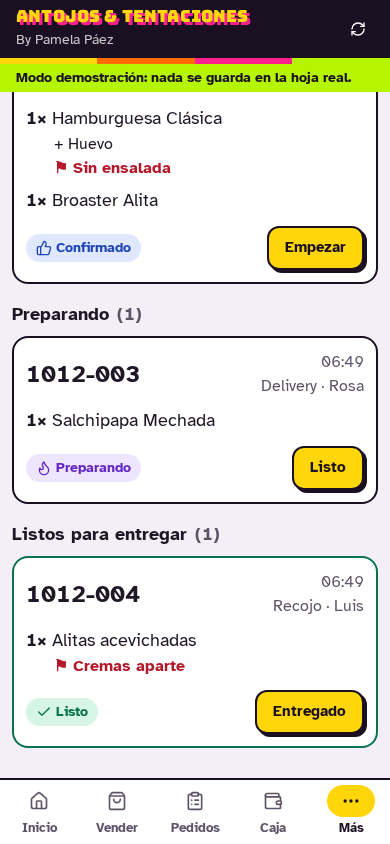
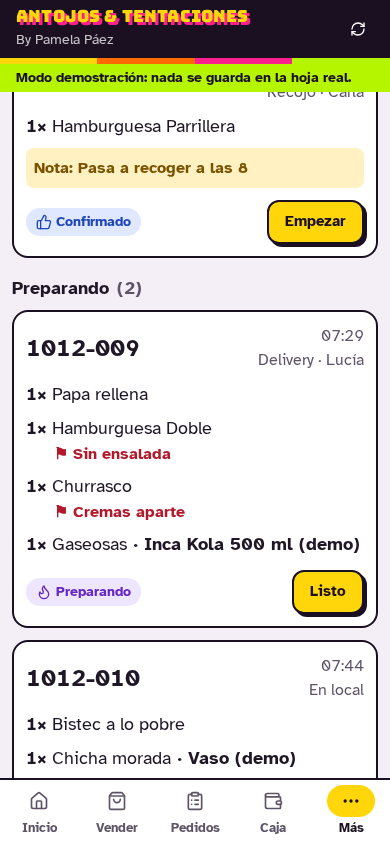
Datos de demostración (cargarDemo) y borrado de datos (borrarDatos)
- cargarDemo(): ~10 días de operación ficticia con las mismas funciones del
  negocio; se niega a correr sobre ventas reales.
- borrarDatos(): limpia lo operativo y las opciones de demo; conserva carta,
  ajustes y clave. También en Ajustes (pide clave y BORRAR).
- El modo ?demo usa los mismos datos. Aviso en el panel mientras haya demo.

Claude-Session: https://claude.ai/code/session_01NiEQnYtQKwSU5MjnVwyy4u

diff --git a/web/src/lib/demo.ts b/web/src/lib/demo.ts
@@ -1,62 +1,18 @@
 /**
- * Modo demostración: ejecuta el mismo Code.gs dentro del navegador con una hoja simulada en memoria.
- * Los datos de ejemplo viven solo aquí (se pierden al recargar) y nunca llegan a la hoja real del negocio.
+ * Modo demostración: ejecuta el mismo Code.gs dentro del navegador con una hoja simulada en memoria y carga
+ * los mismos datos de ejemplo que cargarDemo() en Apps Script. Viven solo aquí (se pierden al recargar).
  */
 import code from '../../../apps-script/Code.gs?raw'
 import { ApiError, type Transport } from './api'
-import { crearBackend, type Backend } from './fakegas'
+import { crearBackend } from './fakegas'
 
 export const CLAVE_DEMO = 'demo'
-
-function sembrar(b: Backend) {
-  const ses = b.post('login', { clave: CLAVE_DEMO }).data.sesion as string
-  const k = () => crypto.randomUUID()
-  const call = (a: string, p: unknown) => { const r = b.post(a, p, ses); if (!r.ok) throw new Error(`${a}: ${r.error?.message}`); return r.data }
-  call('saveOpcion', { id: 'opc-demo-inca', productoId: 'prd-beb-gaseosas', tipo: 'variante', nombre: 'Inca Kola 500 ml', precio: 3.5 })
-  call('saveOpcion', { id: 'opc-demo-coca', productoId: 'prd-beb-gaseosas', tipo: 'variante', nombre: 'Coca-Cola 500 ml', precio: 3.5 })
-  call('saveOpcion', { id: 'opc-demo-huevo', productoId: 'prd-hamb-clasica', tipo: 'extra', nombre: 'Huevo', precio: 1.5 })
-  call('saveOpcion', { id: 'opc-demo-queso', productoId: 'prd-hamb-clasica', tipo: 'extra', nombre: 'Queso', precio: 1.5 })
-  call('marcarProducto', { id: 'prd-hamb-bbq', destacado: true })
-  call('marcarProducto', { id: 'prd-esp-alitas-acevichadas', destacado: true })
-
-  // Días anteriores (para reportes): el reloj de la simulación retrocede.
-  const ahora = Date.now()
-  const lineasDia = [
-    [{ productoId: 'prd-hamb-clasica', cantidad: 2 }, { productoId: 'prd-beb-gaseosas', varianteId: 'opc-demo-inca', cantidad: 2 }],
-    [{ productoId: 'prd-salc-mechada', cantidad: 1 }], [{ productoId: 'prd-brst-pecho', cantidad: 2 }],
-    [{ productoId: 'prd-esp-bistec-pobre', cantidad: 1 }], [{ productoId: 'prd-hamb-doble', cantidad: 1 }, { productoId: 'prd-salc-clasica', cantidad: 1 }],
-  ]
-  for (let d = 6; d >= 1; d--) {
-    b.reloj(() => ahora - d * 86400000 - 3 * 3600000)
-    lineasDia.slice(0, 2 + (d % 4)).forEach((lineas, i) => {
-      const r = call('crearVenta', { clave: k(), canal: i % 3 === 2 ? 'recojo' : 'local', estado: 'entregado', lineas })
-      call('registrarPago', { clave: k(), pedidoId: r.id, medio: ['Efectivo', 'Yape', 'Plin'][i % 3], monto: r.total })
-    })
-    call('crearGasto', { clave: k(), categoria: d % 2 ? 'Ingredientes' : 'Envases', tipo: 'compra', monto: 35 + d * 4, medio: 'Transferencia' })
-  }
-
-  b.reloj(() => ahora - 90 * 60000)
-  call('abrirCaja', { clave: k(), fondo: 50 })
-  const v1 = call('crearVenta', { clave: k(), canal: 'local', estado: 'entregado', lineas: lineasDia[0], pago: { medio: 'Efectivo', monto: 23 } })
-  void v1
-  call('crearVenta', { clave: k(), canal: 'local', lineas: [{ productoId: 'prd-hamb-clasica', extras: ['opc-demo-huevo'], cantidad: 1, nota: 'Sin ensalada' }, { productoId: 'prd-brst-alita', cantidad: 1 }], pago: { medio: 'Yape', monto: 19.5 } })
-  const v3 = call('crearVenta', { clave: k(), canal: 'delivery', cliente: 'Rosa', telefono: '987654321', direccion: 'Jr. Ejemplo 123', referencia: 'Puerta verde', delivery: 3, lineas: lineasDia[1], pago: { medio: 'Plin', monto: 10 } })
-  call('cambiarEstado', { pedidoId: v3.id, estado: 'preparando' })
-  const v4 = call('crearVenta', { clave: k(), canal: 'recojo', cliente: 'Luis', lineas: [{ productoId: 'prd-esp-alitas-acevichadas', cantidad: 1, nota: 'Cremas aparte' }] })
-  call('cambiarEstado', { pedidoId: v4.id, estado: 'listo' })
-  call('crearVenta', { clave: k(), canal: 'delivery', estado: 'pendiente', cliente: 'Carla', direccion: 'Av. Ejemplo 456', lineas: [{ productoId: 'prd-hamb-bbq', cantidad: 2 }] })
-  const v6 = call('crearVenta', { clave: k(), canal: 'local', lineas: [{ productoId: 'prd-hamb-triple', cantidad: 1 }], pago: { medio: 'Efectivo', monto: 16 } })
-  call('cancelarPedido', { pedidoId: v6.id, motivo: 'Cliente se retiró', devolucion: 'pendiente', clave: k() })
-  call('crearGasto', { clave: k(), categoria: 'Gas', tipo: 'operativo', monto: 12, medio: 'Efectivo', desdeCaja: true, descripcion: 'Recarga de balón' })
-  b.reloj(null)
-  call('logout', {})
-}
 
 export function demoTransport(): Transport {
   const b = crearBackend(code)
   b.setup()
   b.fijarClave(CLAVE_DEMO)
-  sembrar(b)
+  b.cargarDemo()
   return async (action, payload, sesion) => {
     await new Promise(r => setTimeout(r, 120))
     const r = b.post(action, payload, sesion)

diff --git a/web/src/backend.test.ts b/web/src/backend.test.ts
@@ -4,6 +4,7 @@ import { readFileSync } from 'node:fs'
 import { resolve } from 'node:path'
 import { beforeEach, describe, expect, it } from 'vitest'
 import { crearBackend, type Backend } from './lib/fakegas'
+import { sumarDias } from './lib/util'
 
 const CODE = readFileSync(resolve(__dirname, '../../apps-script/Code.gs'), 'utf8')
 const CLAVE = 'clave-de-prueba-1'
@@ -358,5 +359,56 @@ describe('carta pública (segunda etapa)', () => {
     expect(p).toHaveLength(1)
     expect([p[0].estado, p[0].origen, p[0].pagado]).toEqual(['pendiente', 'carta', 0])
     expect(b.post('crearSolicitud', { ...s, clave: clave(), cliente: '' }).error?.code).toBe('VALIDATION')
+  })
+})
+
+describe('datos de demostración y borrado', () => {
+  it('cargarDemo llena todas las hojas con 5 o más registros y cuadra', () => {
+    const r = b.cargarDemo()
+    for (const h of ['PEDIDOS', 'DETALLE_PEDIDOS', 'PAGOS', 'GASTOS', 'CAJAS', 'MOVIMIENTOS_CAJA', 'HISTORIAL_ESTADOS', 'OPCIONES']) {
+      expect(filas(h).length, h).toBeGreaterThanOrEqual(5)
+    }
+    expect(r.pedidos).toBeGreaterThanOrEqual(50)
+    const hoy = ok('inicial').hoy
+    const d = ok('rango', { desde: sumarDias(hoy, -30), hasta: hoy, fresh: true })
+    expect(d.incompletos).toHaveLength(0)
+    const estados = new Set(rangoHoy().pedidos.map((p: any) => p.estado))
+    for (const e of ['pendiente', 'confirmado', 'preparando', 'listo', 'entregado', 'cancelado']) expect(estados.has(e), e).toBe(true)
+    const cajas = ok('cajas', { limite: 30 })
+    expect(cajas.filter((c: any) => c.estado === 'cerrada').length).toBeGreaterThanOrEqual(5)
+    expect(cajas.filter((c: any) => c.estado === 'abierta')).toHaveLength(1)
+    expect(ok('inicial').config.datos_demo).toBe('SI')
+    expect(() => b.cargarDemo()).toThrow(/ya están cargados/)
+  })
+
+  it('borrarDatos deja la hoja limpia, conserva catálogo, configuración y clave', () => {
+    ok('saveConfig', { valores: { horario: '6 pm a 11 pm' } })
+    b.cargarDemo()
+    const r = b.borrarDatos()
+    expect(r.PEDIDOS).toBeGreaterThan(0)
+    for (const h of ['PEDIDOS', 'DETALLE_PEDIDOS', 'PAGOS', 'GASTOS', 'CAJAS', 'MOVIMIENTOS_CAJA', 'HISTORIAL_ESTADOS', 'OPCIONES']) expect(filas(h), h).toHaveLength(0)
+    const d = ok('inicial', { fresh: true })
+    expect(d.productos).toHaveLength(25)
+    expect(d.config.horario).toBe('6 pm a 11 pm')
+    expect(d.config.datos_demo).toBe('NO')
+    expect(d.caja).toBeNull()
+    expect(rangoHoy().pedidos).toHaveLength(0)
+    // Los códigos vuelven a empezar y se puede vender normalmente.
+    expect(venta([{ productoId: 'prd-hamb-doble', cantidad: 1 }]).codigo).toMatch(/-001$/)
+  })
+
+  it('no carga la demo encima de ventas reales', () => {
+    venta([{ productoId: 'prd-hamb-doble', cantidad: 1 }])
+    expect(() => b.cargarDemo()).toThrow(/ya tiene ventas/)
+  })
+
+  it('desde el panel exige la clave y la palabra BORRAR', () => {
+    b.cargarDemo()
+    expect(err('borrarDatos', { clave: 'mala', confirmacion: 'BORRAR' }).message).toMatch(/clave/)
+    expect(err('borrarDatos', { clave: CLAVE, confirmacion: 'si' }).message).toMatch(/BORRAR/)
+    expect(filas('PEDIDOS').length).toBeGreaterThan(0)
+    ok('borrarDatos', { clave: CLAVE, confirmacion: 'BORRAR' })
+    expect(filas('PEDIDOS')).toHaveLength(0)
+    expect(err('borrarDatos', { clave: CLAVE, confirmacion: 'BORRAR' }, '').code).toBe('UNAUTHORIZED')
   })
 })

diff --git a/web/src/tabs/Ajustes.tsx b/web/src/tabs/Ajustes.tsx
@@ -82,6 +82,8 @@ export function Ajustes() {
         <p className="mt-2 text-sm text-gris">Cambiar la clave cierra la sesión en todos los equipos. Si la olvidas, se restablece desde Apps Script con la función restablecerClave().</p>
       </Seccion>
 
+      <BorrarDatos />
+
       <Seccion titulo="Conexión y datos">
         <div className="space-y-2">
           <p>Versión del servidor {ini.version}. {st.modo === 'demo' ? 'Modo demostración.' : <a href={ini.sheetUrl} target="_blank" rel="noreferrer" className="inline-flex items-center gap-1 font-bold underline">Abrir la hoja de cálculo<ExternalLink className="size-4" aria-hidden /></a>}</p>
@@ -91,5 +93,35 @@ export function Ajustes() {
         </div>
       </Seccion>
     </div>
+  )
+}
+
+/** Borra pedidos, pagos, gastos, cajas e historial (por ejemplo, los datos de demostración antes de empezar en serio). */
+function BorrarDatos() {
+  const st = useStore()
+  const [clave, setClave] = useState('')
+  const [palabra, setPalabra] = useState('')
+  const [enviando, setEnviando] = useState(false)
+  const demo = st.inicial?.config.datos_demo === 'SI'
+  return (
+    <Seccion titulo="Borrar datos de ventas" className="border-e-canc">
+      <p className="mb-3">
+        {demo ? 'La hoja tiene datos de demostración. ' : ''}Borra todos los pedidos, cobros, devoluciones, gastos, cajas e historial.
+        Se conservan la carta, los ajustes y tu clave. No se puede deshacer desde la app (sí desde el historial de versiones de la hoja).
+      </p>
+      <div className="grid gap-3 md:grid-cols-2">
+        <Campo etiqueta="Tu clave"><Input type="password" autoComplete="current-password" value={clave} onChange={e => setClave(e.target.value)} /></Campo>
+        <Campo etiqueta="Escribe BORRAR para confirmar"><Input value={palabra} onChange={e => setPalabra(e.target.value)} autoCapitalize="characters" /></Campo>
+      </div>
+      <Btn variante="peligro" className="mt-3" disabled={!clave || palabra !== 'BORRAR'} cargando={enviando} onClick={async () => {
+        if (!(await confirmar({ titulo: 'Borrar datos de ventas', texto: 'Se borrarán todos los pedidos, cobros, gastos, cajas e historial. ¿Continuar?', ok: 'Borrar todo', peligro: true }))) return
+        setEnviando(true)
+        try {
+          await st.run('Borrar datos', () => st.call('borrarDatos', { clave, confirmacion: palabra }), 'Datos borrados. La hoja quedó lista para empezar.')
+          setClave(''); setPalabra('')
+          await st.recargarTodo()
+        } catch { /* aviso mostrado */ } finally { setEnviando(false) }
+      }}>Borrar datos de ventas</Btn>
+    </Seccion>
   )
 }

diff --git a/web/src/lib/fakegas.ts b/web/src/lib/fakegas.ts
@@ -40,6 +40,10 @@ class FakeRange {
     return this
   }
   setNumberFormat() { return this }
+  clearContent() {
+    for (let i = 0; i < this.nr; i++) { const row = this.s.rows[this.r - 1 + i]; if (row) for (let j = 0; j < this.nc; j++) row[this.c - 1 + j] = '' }
+    return this
+  }
   setFontWeight() { return this }
   setBackground() { return this }
 }
@@ -114,6 +118,8 @@ export interface Backend {
   post(action: string, payload?: unknown, sesion?: string): { ok: boolean; data?: any; error?: { code: string; message: string; detalle?: any } }
   get(): { ok: boolean; data?: any }
   setup(): void
+  cargarDemo(): Record<string, number>
+  borrarDatos(): Record<string, number>
   fijarClave(clave: string): void
   fallarEn(paso: string): void
   reloj(fn: (() => number) | null): void
@@ -170,7 +176,7 @@ export function crearBackend(code: string, opts: BackendOpts = {}): Backend {
     console: { error: () => {}, warn: () => {}, log: () => {} },
   }
   const names = Object.keys(env)
-  const expose = `;return { doPost: doPost, doGet: doGet, setup: setup, restablecerClave: restablecerClave,
+  const expose = `;return { doPost: doPost, doGet: doGet, setup: setup, restablecerClave: restablecerClave, cargarDemo: cargarDemo, borrarDatos: borrarDatos,
     fijarClave: fijarClave_, set: function (k, v) { if (k === 'F') FALLAS_PRUEBA = v; if (k === 'R') RELOJ_PRUEBA = v; } };`
   // eslint-disable-next-line no-new-func
   const api = new Function(...names, code + expose)(...names.map(k => env[k]))
@@ -181,6 +187,8 @@ export function crearBackend(code: string, opts: BackendOpts = {}): Backend {
     },
     get() { return JSON.parse(api.doGet()) },
     setup() { api.setup() },
+    cargarDemo() { return api.cargarDemo() },
+    borrarDatos() { return api.borrarDatos() },
     fijarClave(clave) { api.fijarClave(clave) },
     fallarEn(paso) { api.set('F', { [paso]: true }) },
     reloj(fn) { api.set('R', fn) },

diff --git a/web/src/App.tsx b/web/src/App.tsx
@@ -60,6 +60,7 @@ export function App() {
           ))}
         </nav>
         {st.modo === 'demo' && <p className="m-3 rounded-xl bg-lima px-3 py-2 text-sm font-bold text-noche">Modo demostración: datos de ejemplo que no se guardan en la hoja.</p>}
+        {st.modo === 'real' && st.inicial?.config.datos_demo === 'SI' && <p className="m-3 rounded-xl bg-lima px-3 py-2 text-sm font-bold text-noche">La hoja tiene datos de demostración. Bórralos en Ajustes antes de usarla en serio.</p>}
       </aside>
 
       <div className="min-w-0 pb-24 xl:pb-8">
@@ -71,6 +72,7 @@ export function App() {
           </div>
           <div className="franja" />
           {st.modo === 'demo' && <p className="bg-lima px-4 py-1 text-sm font-bold text-noche">Modo demostración: nada se guarda en la hoja real.</p>}
+          {st.modo === 'real' && st.inicial?.config.datos_demo === 'SI' && <p className="bg-lima px-4 py-1 text-sm font-bold text-noche">Datos de demostración cargados. Bórralos en Ajustes antes de usar la app en serio.</p>}
         </header>
         <div className="sticky top-0 z-10 hidden items-center justify-end gap-3 bg-papel/90 px-6 py-2 backdrop-blur xl:flex">
           <EstadoGuardado claro />

diff --git a/web/src/tabs/Pedidos.tsx b/web/src/tabs/Pedidos.tsx
@@ -97,7 +97,7 @@ export function Pedidos() {
               <tbody className="divide-y-2 divide-linea">
                 {lista.map(p => (
                   <tr key={p.id} className="align-top hover:bg-papel">
-                    <td className="px-3 py-2"><button type="button" onClick={() => setAbierto(p.id)} className="font-bold underline tabular cursor-pointer">{p.codigo}</button></td>
+                    <td className="px-3 py-2"><button type="button" onClick={() => setAbierto(p.id)} className="font-bold whitespace-nowrap underline tabular cursor-pointer">{p.codigo}</button></td>
                     <td className="px-3 py-2 tabular">{p.enRango ? hora(p.creadoEn) : fechaCorta(p.fecha)}</td>
                     <td className="px-3 py-2">{p.cliente || '—'}<span className="block text-sm text-gris">{ETIQUETA_CANAL[p.canal]}</span></td>
                     <td className="max-w-xs px-3 py-2 text-sm">{resumen(p)}</td>

diff --git a/README.md b/README.md
@@ -73,6 +73,12 @@ Para actualizar el backend: pega el `Code.gs` nuevo y en **Implementar → Gesti
 2. En *Environment variables* agrega `VITE_API_URL` = la URL `/exec`. (Sin esta variable, cada equipo puede ingresarla en “Configurar conexión” del login).
 3. Netlify publica al fusionar en `main`.
 
+### Datos de demostración (para presentar)
+- **`cargarDemo()`** (desde el editor de Apps Script, tarda 1–3 minutos): carga unos 10 días de operación ficticia usando las mismas funciones del negocio. Incluye más de 60 pedidos en todos los estados, cobros por todos los medios, saldos por cobrar, cancelaciones con y sin devolución, gastos de compra y operativos, 9 cajas cerradas (una con diferencia) y la caja de hoy abierta con aporte y retiro. También agrega precios de ejemplo para bebidas y extras, marcados “(demo)”. Se niega a correr si la hoja ya tiene ventas reales.
+- Mientras haya datos de demo, el panel muestra un aviso verde lima.
+- **`borrarDatos()`** (desde el editor) o **Ajustes → Borrar datos de ventas** (pide la clave y escribir BORRAR): borra pedidos, detalle, pagos, gastos, cajas, movimientos e historial, y las opciones “(demo)”. Conserva la carta, los ajustes y la clave. Los códigos de pedido vuelven a empezar en 001. Se recupera solo desde Archivo → Historial de versiones de la hoja.
+- El modo `?demo` del navegador carga exactamente los mismos datos, en memoria.
+
 ### 3. Primer uso
 Entra con la clave inicial y cámbiala en **Ajustes → Seguridad**. Revisa en **Carta** los productos “por revisar” (bebidas y Salchibroaster sin precio, descripciones pendientes) y en **Ajustes** confirma el número de WhatsApp.
 
@@ -81,7 +87,7 @@ Entra con la clave inicial y cámbiala en **Ajustes → Seguridad**. Revisa en *
 cd web
 npm install
 npm run dev          # abre http://localhost:5173/?demo  (clave: demo)
-npm test             # 33 pruebas: backend real + motor de indicadores
+npm test             # 37 pruebas: backend real + motor de indicadores
 npm run lint && npm run build
 ```
 
@@ -91,7 +97,7 @@ Cargado por `setup()` con IDs fijos (no se duplica). Los nombres llevan la categ
 ## Pruebas realizadas
 
 Ejecutadas en este entorno:
-- **Backend** (`web/src/backend.test.ts`, 29 pruebas): instalador idempotente y que no reinicia configuración; autenticación (sin sesión, sesión falsa o vencida, bloqueo por intentos, logout, cambio de clave revoca, clave nunca en texto); precios recalculados en el servidor; aviso si el total cambió; **doble clic/reintento sin duplicar** pedido, pago ni movimiento; **cambio de precio sin alterar el historial**; **producto agotado** o sin precio bloqueado con detalle; variantes y extras; cantidades e importes inválidos; protección contra fórmulas; **pago parcial y saldo**; transiciones; **cancelación de pedido pagado** (pendiente de devolución y devolución inmediata, ambas idempotentes); delivery por confirmar; **cierre de caja** con efectivo, Yape, gastos de caja, gasto fuera de caja, retiro y aporte; anulación de gastos; **escrituras interrumpidas** a mitad (detalle, pago) y su recuperación; lock ocupado; invalidación de caché; carta pública sin datos de clientes y solicitud pendiente con código.
+- **Backend** (`web/src/backend.test.ts`, 33 pruebas): instalador idempotente y que no reinicia configuración; autenticación (sin sesión, sesión falsa o vencida, bloqueo por intentos, logout, cambio de clave revoca, clave nunca en texto); precios recalculados en el servidor; aviso si el total cambió; **doble clic/reintento sin duplicar** pedido, pago ni movimiento; **cambio de precio sin alterar el historial**; **producto agotado** o sin precio bloqueado con detalle; variantes y extras; cantidades e importes inválidos; protección contra fórmulas; **pago parcial y saldo**; transiciones; **cancelación de pedido pagado** (pendiente de devolución y devolución inmediata, ambas idempotentes); delivery por confirmar; **cierre de caja** con efectivo, Yape, gastos de caja, gasto fuera de caja, retiro y aporte; anulación de gastos; **escrituras interrumpidas** a mitad (detalle, pago) y su recuperación; lock ocupado; invalidación de caché; carta pública sin datos de clientes y solicitud pendiente con código; `cargarDemo()` (≥5 registros en cada hoja, todos los estados, sin incompletos, no corre sobre ventas reales) y `borrarDatos()` (limpia lo operativo, conserva catálogo y configuración; desde el panel exige clave y BORRAR).
 - Comprobé que las pruebas fallan si se quita la protección de fórmulas, la idempotencia de ventas o la verificación de sesión.
 - **Coherencia** (`web/src/engine.test.ts`): ventas, cobros, devoluciones, saldo y ticket del motor cuadran con la caja del servidor; filtros por categoría, canal y medio.
 - **Navegador real** (Chromium, modo demo) en 390 px, 1024 px y 1440 px (`web/scripts/recorrido.mjs`): login con clave errada y correcta, producto sin precio bloqueado, venta con pago parcial guardada con doble clic (una sola), cobro del saldo, cancelación con devolución pendiente, cierre de caja con diferencia. Sin errores de página.
